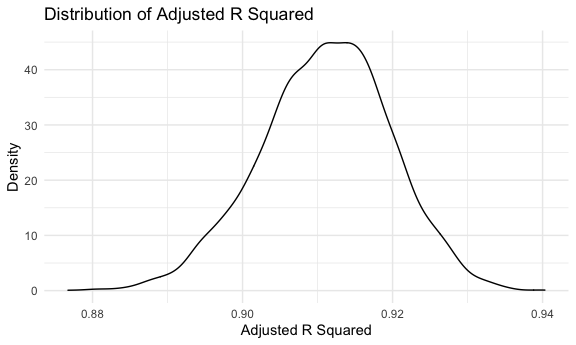
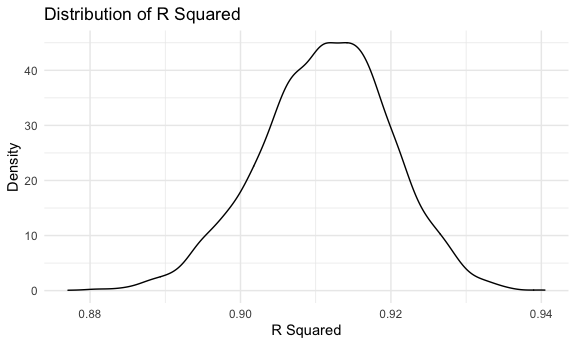
Final version

diff --git a/p8105_hw6_yc4018.md b/p8105_hw6_yc4018.md
@@ -70,15 +70,14 @@ sum(is.na(birthweight_df))
 
 2.  Propose a regression model for birthweight
 
--   After searching online, I found out that the premature birth,
-    mother’s race, age, and health, multiple birth, and whether or not
-    she smokes are the majority causes of low birthweight. Hence, I
-    choose gestational age in weeks (`gaweeks`), mother’s race
-    (`mrace`), mother’s age at delivery (`momage`), mother’s
-    pre-pregnancy BMI (`ppbmi`), number of live births prior to this
-    pregnancy (`parity`), and average number of cigarettes smoked per
-    day during pregnancy(`smoken`) as predictors to predict child’s
-    birthweight.
+-   After searching online, I found out that premature birth, mother’s
+    race, age, and health, multiple births, and whether or not she
+    smokes are the majority causes of low birthweight. Hence, I choose
+    gestational age in weeks (`gaweeks`), mother’s race (`mrace`),
+    mother’s age at delivery (`momage`), mother’s pre-pregnancy BMI
+    (`ppbmi`), number of live births prior to this pregnancy (`parity`),
+    and average number of cigarettes smoked per day during
+    pregnancy(`smoken`) as predictors to predict child’s birthweight.
 
 ``` r
 model_fit1 = lm(bwt ~ gaweeks + mrace + momage + ppbmi + parity + smoken, data = birthweight_df)
@@ -115,6 +114,15 @@ birthweight_df %>%
 
 <img src="p8105_hw6_yc4018_files/figure-gfm/unnamed-chunk-4-1.png" width="90%" />
 
+-   Based on the above scatter plot we can see that the residuals
+    “bounce randomly” around the 0. Hence, the assumption that the
+    relationship between the predictors, (`gaweeks`), mother’s race
+    (`mrace`), mother’s age at delivery (`momage`), mother’s
+    pre-pregnancy BMI (`ppbmi`), number of live births prior to this
+    pregnancy (`parity`), and average number of cigarettes smoked per
+    day during pregnancy(`smoken`), and the outcome, child’s
+    birthweight, is linear is reasonable.
+
 4.  Fit two other models:
 
 -   One using length at birth and gestational age as predictors (main
@@ -122,7 +130,16 @@ birthweight_df %>%
 
 ``` r
 model_fit2 = lm(bwt ~ blength + gaweeks, data = birthweight_df)
+
+broom::tidy(model_fit2) %>% 
+  knitr::kable()
 ```
+
+| term        |    estimate | std.error | statistic | p.value |
+|:------------|------------:|----------:|----------:|--------:|
+| (Intercept) | -4347.66707 | 97.958360 | -44.38281 |       0 |
+| blength     |   128.55569 |  1.989891 |  64.60439 |       0 |
+| gaweeks     |    27.04673 |  1.717930 |  15.74379 |       0 |
 
 -   One using head circumference, length, sex, and all interactions
     (including the three-way interaction) between these
@@ -130,7 +147,20 @@ model_fit2 = lm(bwt ~ blength + gaweeks, data = birthweight_df)
 ``` r
 model_fit3 = lm(bwt ~ bhead + blength + babysex + bhead * blength + 
                   bhead * babysex + blength * babysex + bhead * blength * babysex, data = birthweight_df)
+broom::tidy(model_fit3) %>% 
+  knitr::kable()
 ```
+
+| term                   |      estimate |    std.error |  statistic |   p.value |
+|:-----------------------|--------------:|-------------:|-----------:|----------:|
+| (Intercept)            | -7176.8170221 | 1264.8397394 | -5.6740920 | 0.0000000 |
+| bhead                  |   181.7956350 |   38.0542051 |  4.7772811 | 0.0000018 |
+| blength                |   102.1269235 |   26.2118095 |  3.8962180 | 0.0000992 |
+| babysex2               |  6374.8683508 | 1677.7669213 |  3.7996150 | 0.0001469 |
+| bhead:blength          |    -0.5536096 |    0.7802092 | -0.7095656 | 0.4780117 |
+| bhead:babysex2         |  -198.3931810 |   51.0916850 | -3.8830816 | 0.0001047 |
+| blength:babysex2       |  -123.7728875 |   35.1185360 | -3.5244319 | 0.0004288 |
+| bhead:blength:babysex2 |     3.8780531 |    1.0566296 |  3.6702106 | 0.0002453 |
 
 5.  Compute rmse: cross validation.
 
@@ -165,7 +195,8 @@ cv_df %>%
     values_to = "rmse",
     names_prefix = "rmse_") %>% 
   ggplot(aes(x = model, y = rmse)) +
-  geom_violin() +
+  geom_violin(aes(fill = model), alpha = .5) +
+  theme(legend.position = "none") +
   labs(
      title = "Violin Plot of RMSEs for Three Models",
      x = "Model",
@@ -174,12 +205,12 @@ cv_df %>%
 
 <img src="p8105_hw6_yc4018_files/figure-gfm/unnamed-chunk-8-1.png" width="90%" />
 
--   Based on the above violin plot of RMSEs for three models, since the
-    model 3 has the smallest RMSE value, it is the best model; and the
-    model 1 which with the largest RMSE value is the worst model. Hence,
-    model 3, the model that has highest prediction accuracy, is the one
-    to use `head circumference`, `length`, `sex`, and all interactions
-    as predictors to predict child’s birthweight.
+-   Based on the above violin plot of RMSEs for three models, since
+    model 3 has the smallest RMSE value, it is the best model; and model
+    1 which with the largest RMSE value is the worst model. Hence, model
+    3, the model that has the highest prediction accuracy, is the one to
+    use `head circumference`, `length`, `sex`, and all interactions as
+    predictors to predict child’s birthweight.
 
 ### **Problem 2**
 
@@ -208,7 +239,7 @@ weather_boot_results =
     ) %>% 
     select(strap_number, results_r, results_log) %>% 
     unnest(results_r, results_log) %>% 
-  select(strap_number, adj.r.squared, term, estimate) %>% 
+  select(strap_number, r.squared, term, estimate) %>% 
   pivot_wider(
     names_from = term,
     values_from = estimate
@@ -217,18 +248,18 @@ weather_boot_results =
   mutate(
     log_beta1beta2 = log(intercept * tmin)
   ) %>% 
-  select(strap_number, adj_r_squared, log_beta1beta2)
+  select(strap_number, r_squared, log_beta1beta2)
 ```
 
 1.  Plot the distribution of *r̂*<sup>2</sup>
 
 ``` r
 weather_boot_results %>% 
-  ggplot(aes(x = adj_r_squared)) +
+  ggplot(aes(x = r_squared)) +
   geom_density() + 
   labs(
-    title = c("Distribution of Adjusted R Squared"),
-    x = c("Adjusted R Squared"),
+    title = c("Distribution of R Squared"),
+    x = c("R Squared"),
     y = c("Density")
   )
 ```
@@ -265,8 +296,8 @@ weather_boot_results %>%
 ``` r
 weather_boot_results %>% 
   summarize(
-    ci_lower_r = quantile(adj_r_squared, 0.025),
-    ci_upper_r = quantile(adj_r_squared, 0.975),
+    ci_lower_r = quantile(r_squared, 0.025),
+    ci_upper_r = quantile(r_squared, 0.975),
     ci_lower_log = quantile(log_beta1beta2, 0.025),
     ci_upper_log = quantile(log_beta1beta2, 0.975),
   )
@@ -275,11 +306,11 @@ weather_boot_results %>%
     ## # A tibble: 1 × 4
     ##   ci_lower_r ci_upper_r ci_lower_log ci_upper_log
     ##        <dbl>      <dbl>        <dbl>        <dbl>
-    ## 1      0.893      0.927         1.97         2.06
+    ## 1      0.894      0.927         1.97         2.06
 
--   Hence, the 95% confidence interval for *r̂*<sup>2</sup> is (0.893,
+-   Hence, the 95% confidence interval for *r̂*<sup>2</sup> is (0.894,
     0.927). We are 95% confident that the *r̂*<sup>2</sup> is between
-    0.893 and 0.927.  
+    0.894 and 0.927.  
     And the 95% confidence interval for
     *l**o**g*(*β̂*<sub>0</sub> \* *β̂*<sub>1</sub>) is (1.966, 2.059). We
     are 95% confident that the
